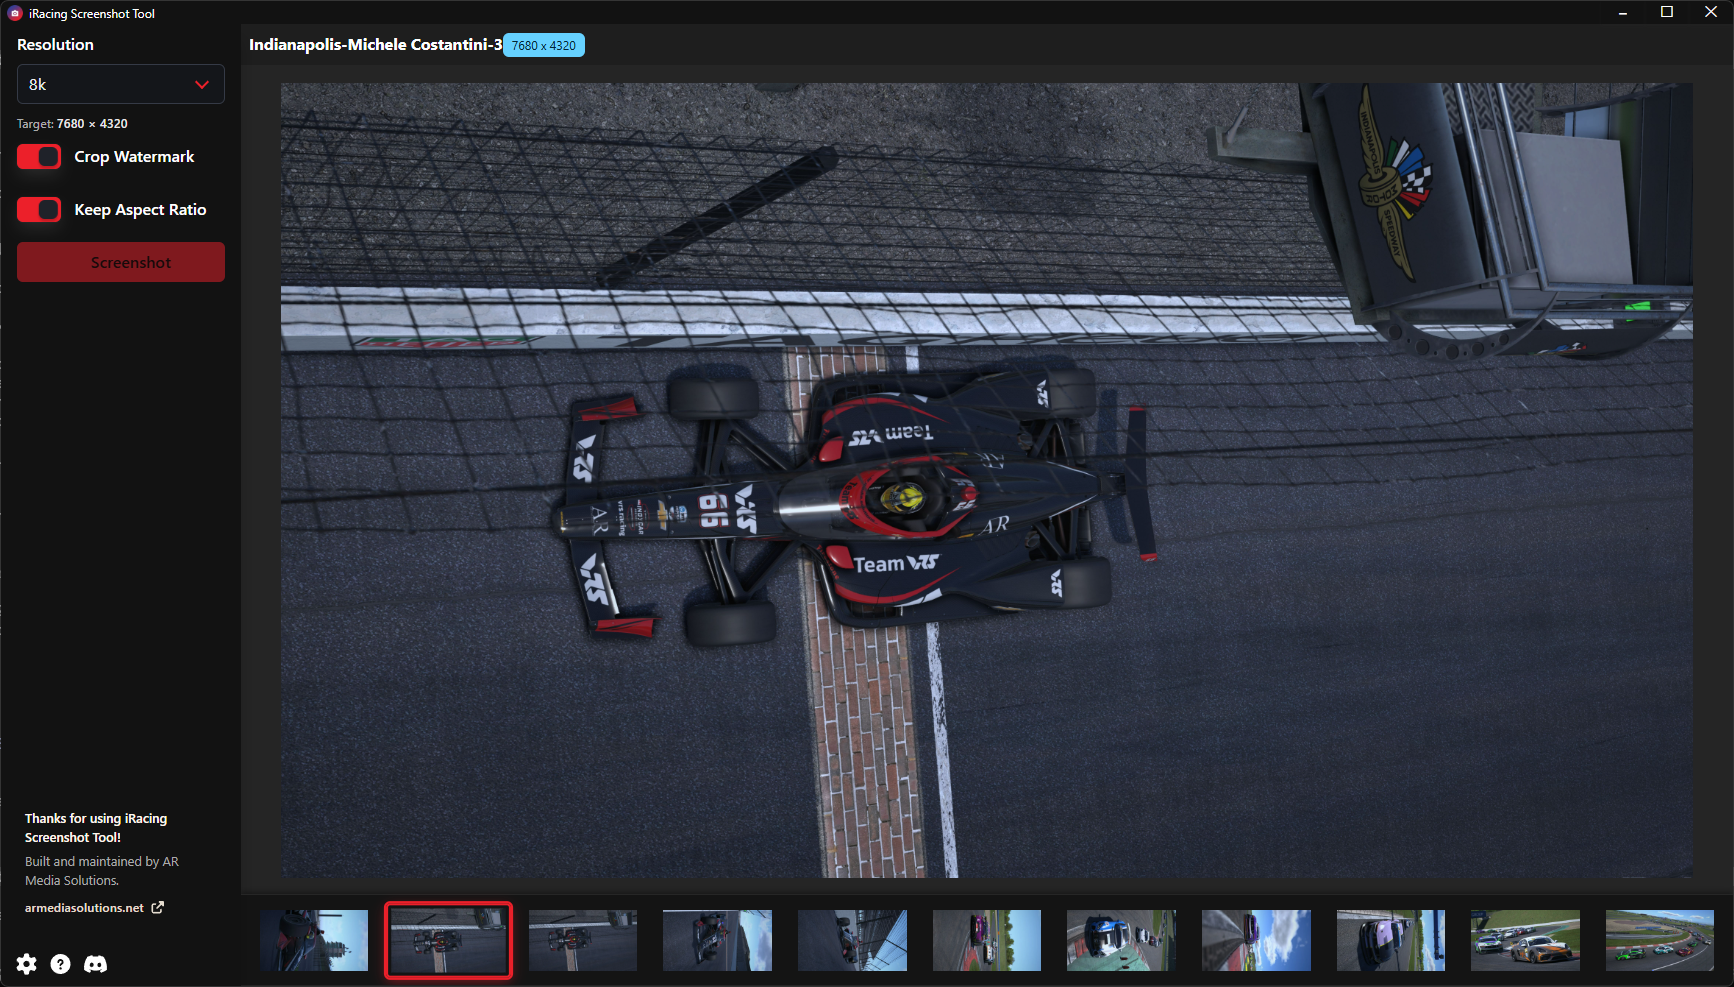
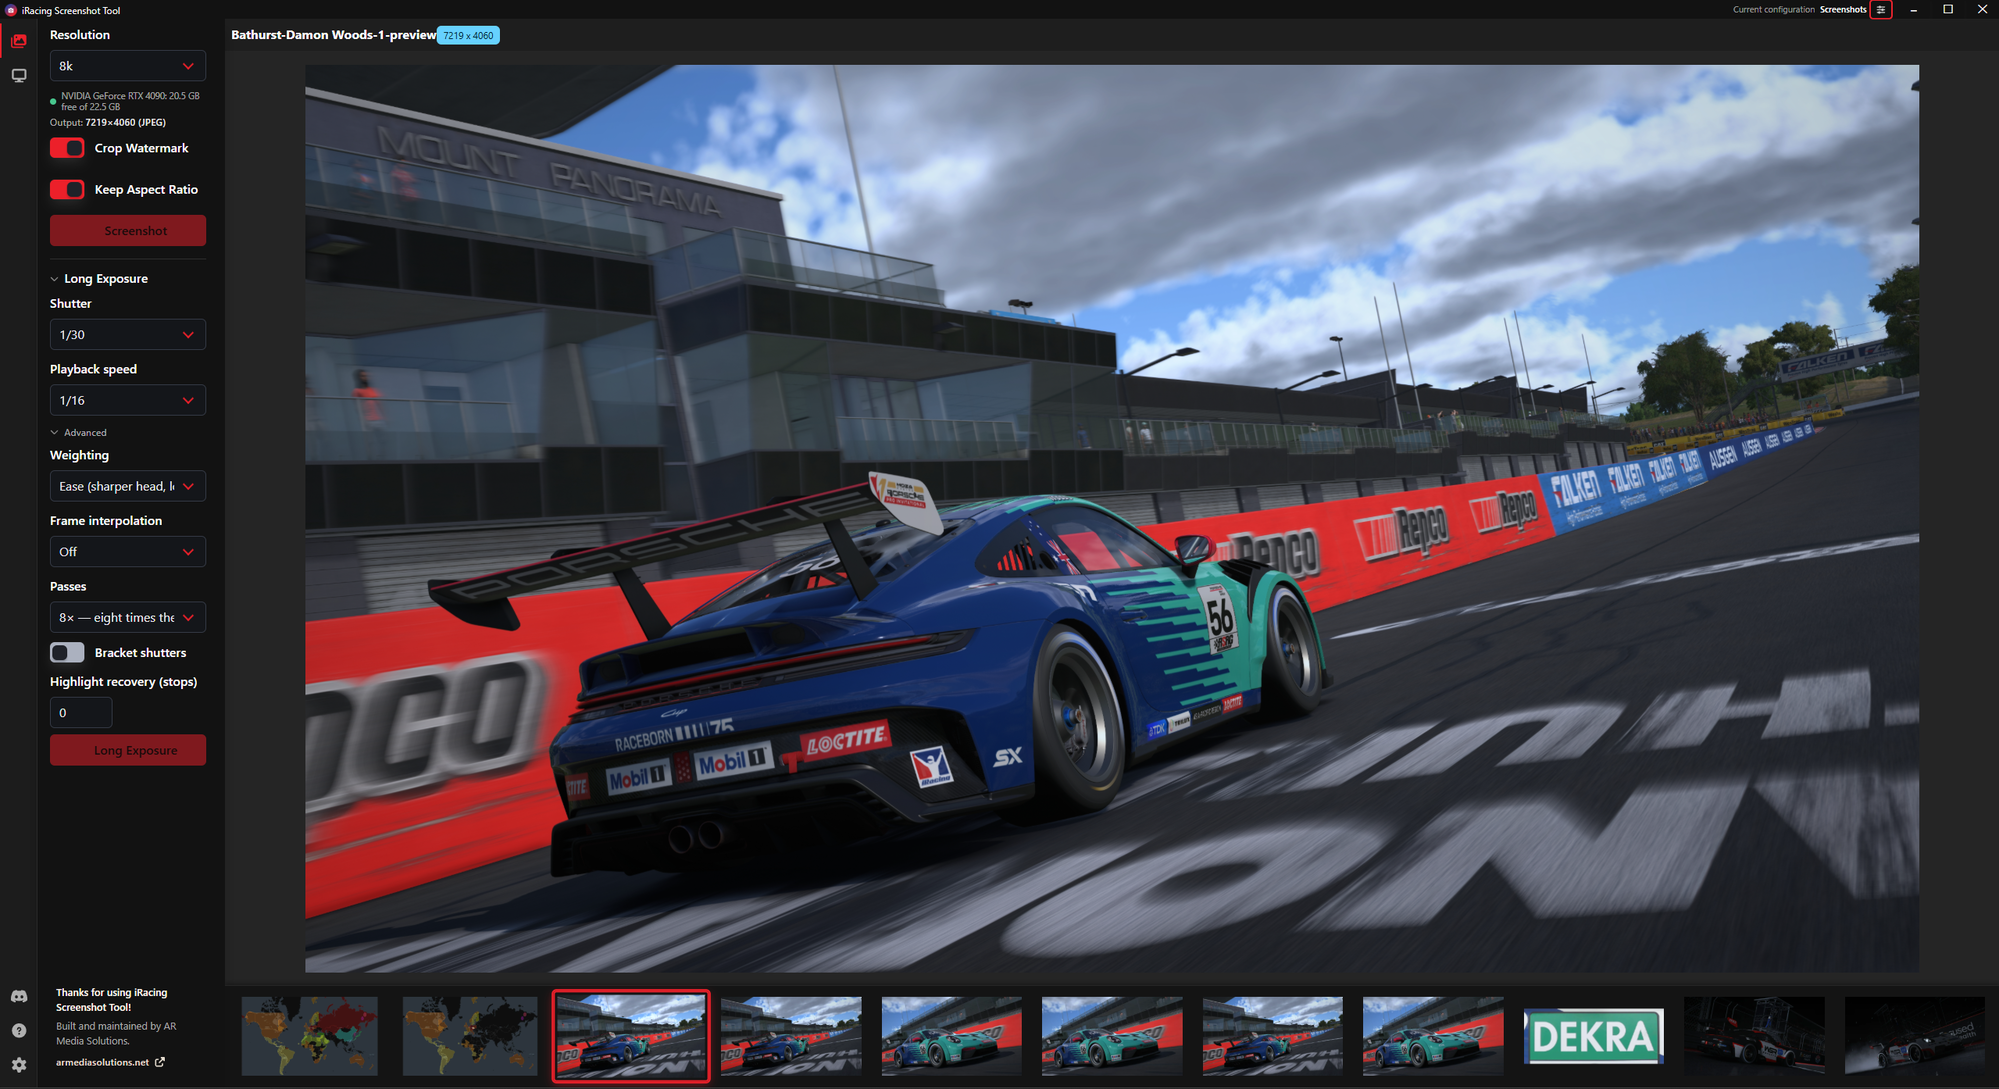
docs(readme): new app screenshot
An 8K Long Exposure setup at Bathurst, showing the current sidebar —
resolution with the VRAM readout, shutter, playback speed, weighting,
interpolation, passes and bracketing — instead of the years-old UI.
Cache-buster bumped so GitHub's image proxy picks it up.

diff --git a/README.md b/README.md
@@ -1,7 +1,7 @@
 # iRacing Screenshot Tool
 [![GitHub release (latest by date)](https://img.shields.io/github/v/release/svglol/iracing-screenshot-tool)](https://github.com/svglol/iracing-screenshot-tool/releases) [![Discord](https://img.shields.io/discord/626921718442754048.svg?label=&logo=discord&logoColor=ffffff&color=7389D8&labelColor=6A7EC2)](https://discord.gg/GX2kSgN)
 
-![](https://raw.githubusercontent.com/svglol/iracing-screenshot-tool/master/static/screenshot.png?v=5&s=200?)
+![](https://raw.githubusercontent.com/svglol/iracing-screenshot-tool/master/static/screenshot.png?v=6)
 
 # About
 A tool created to take high resolution screenshots of iRacing without having to use Nvidia DSR.
